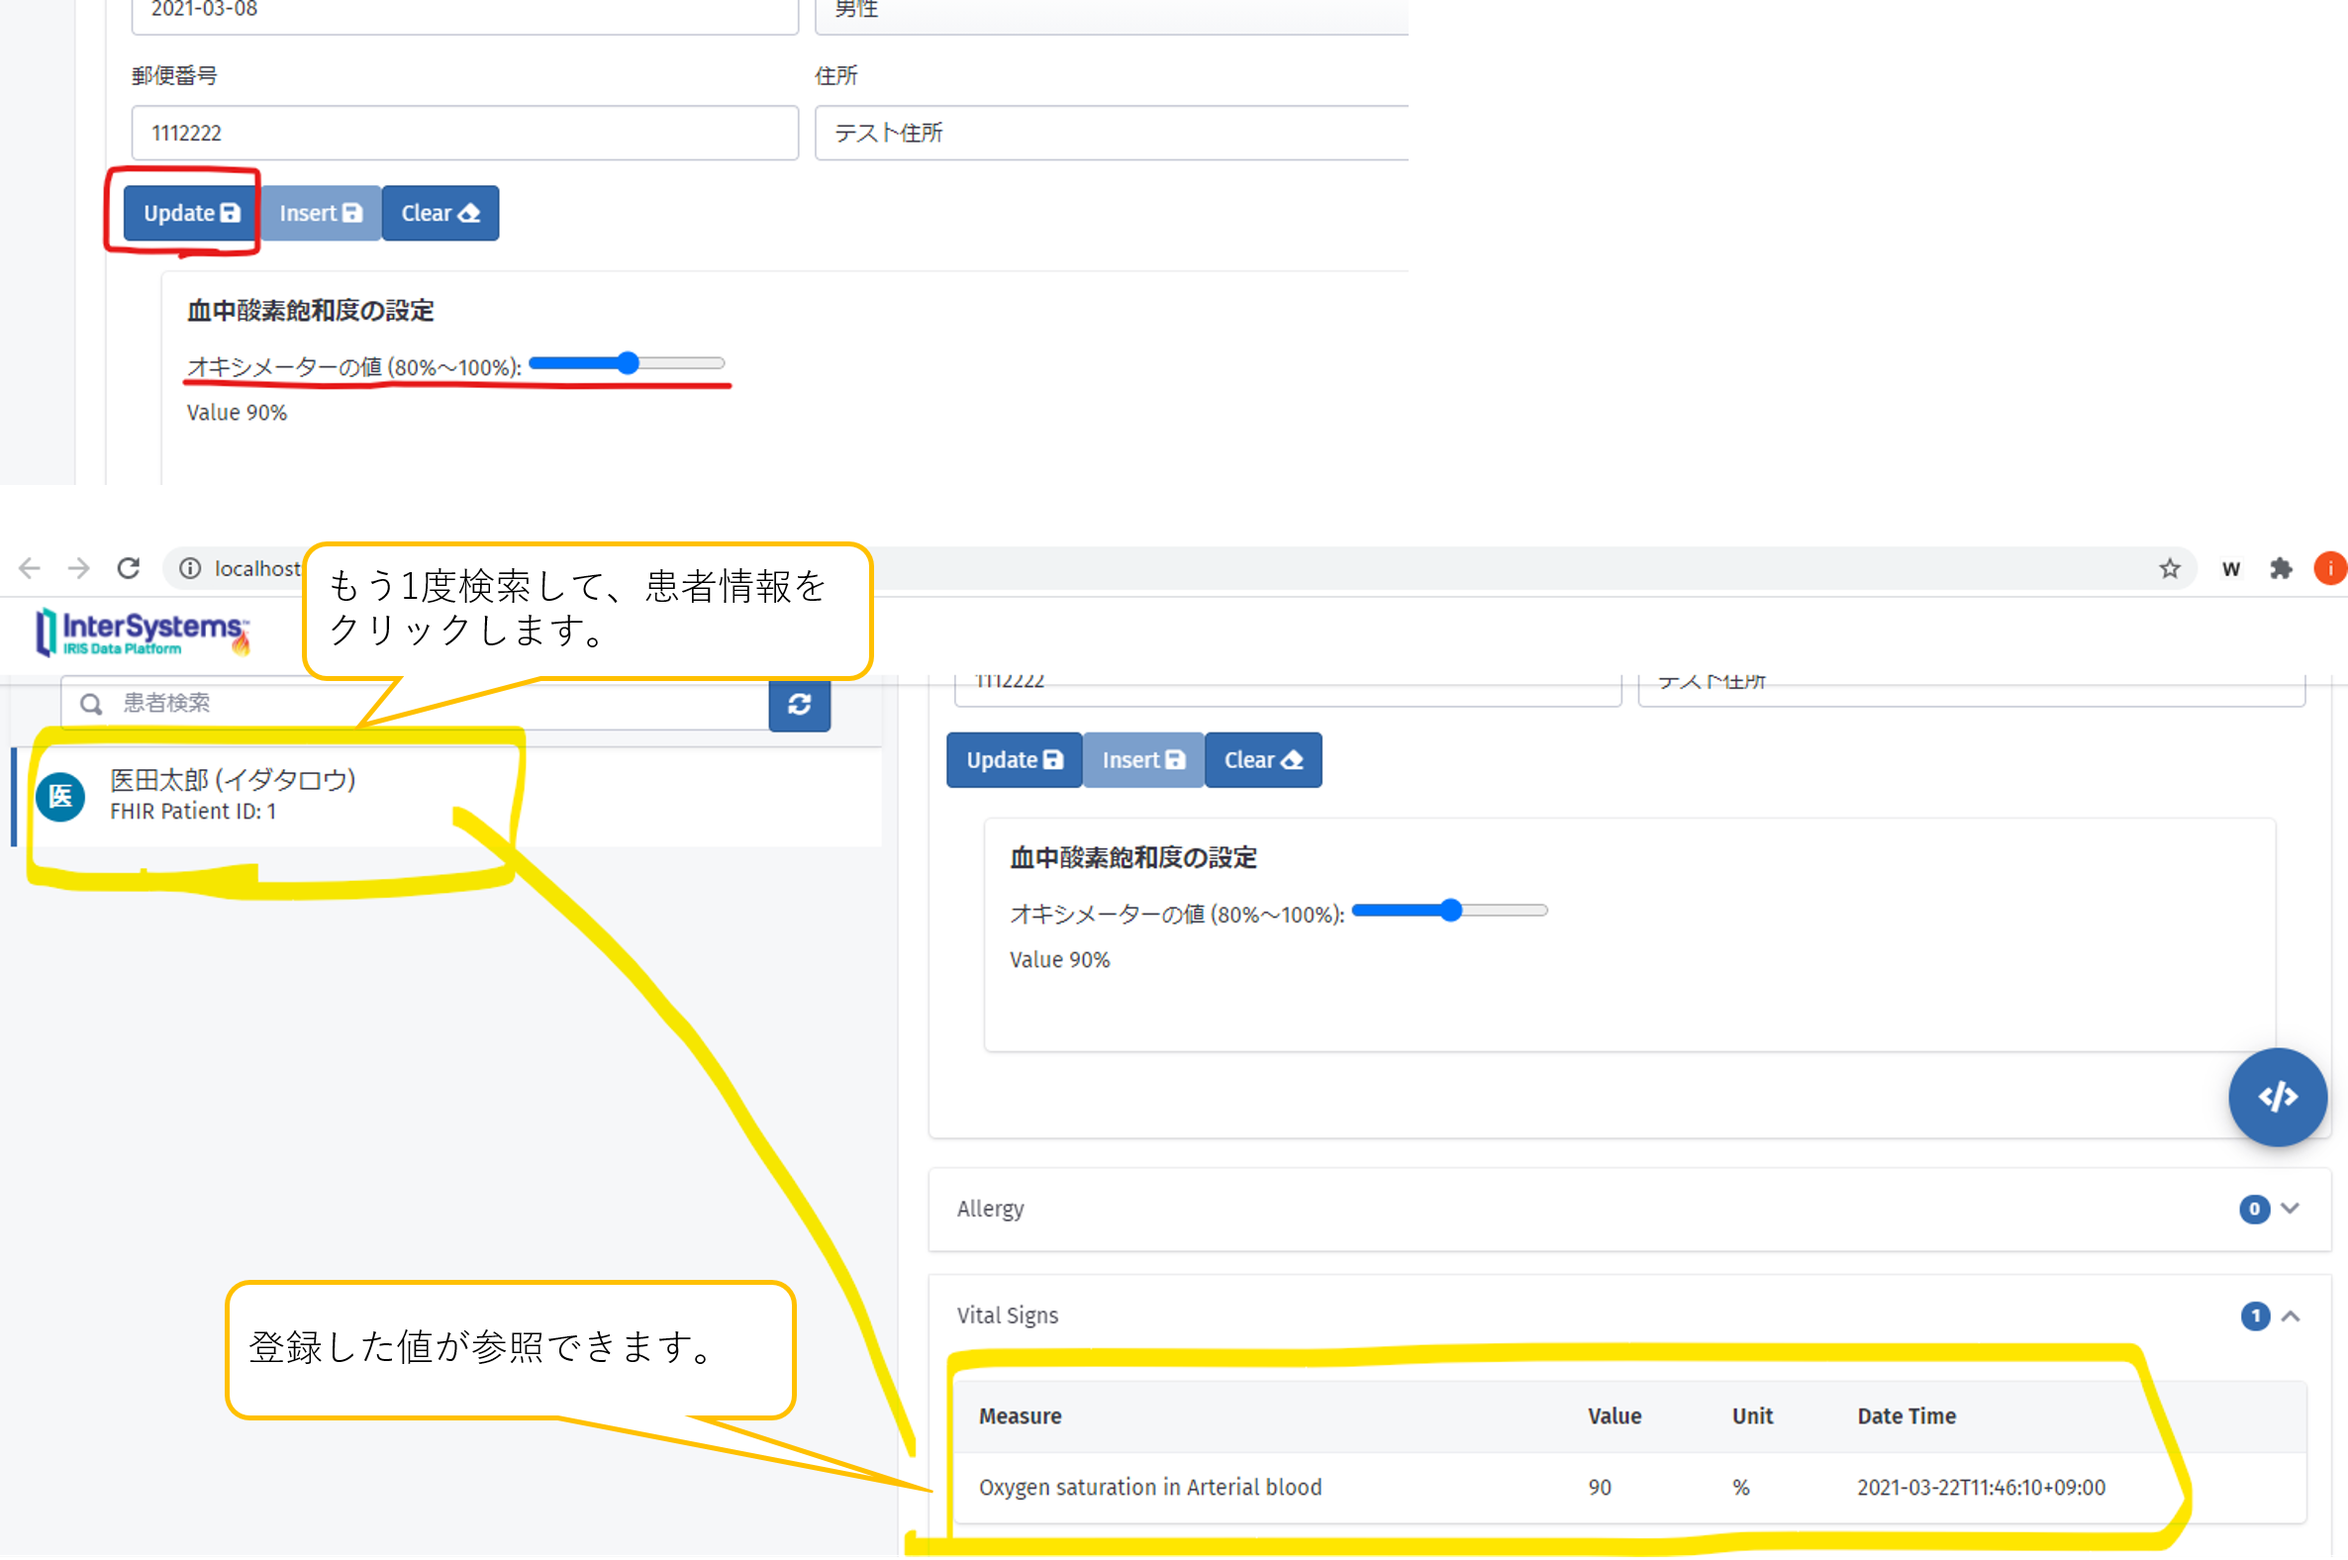
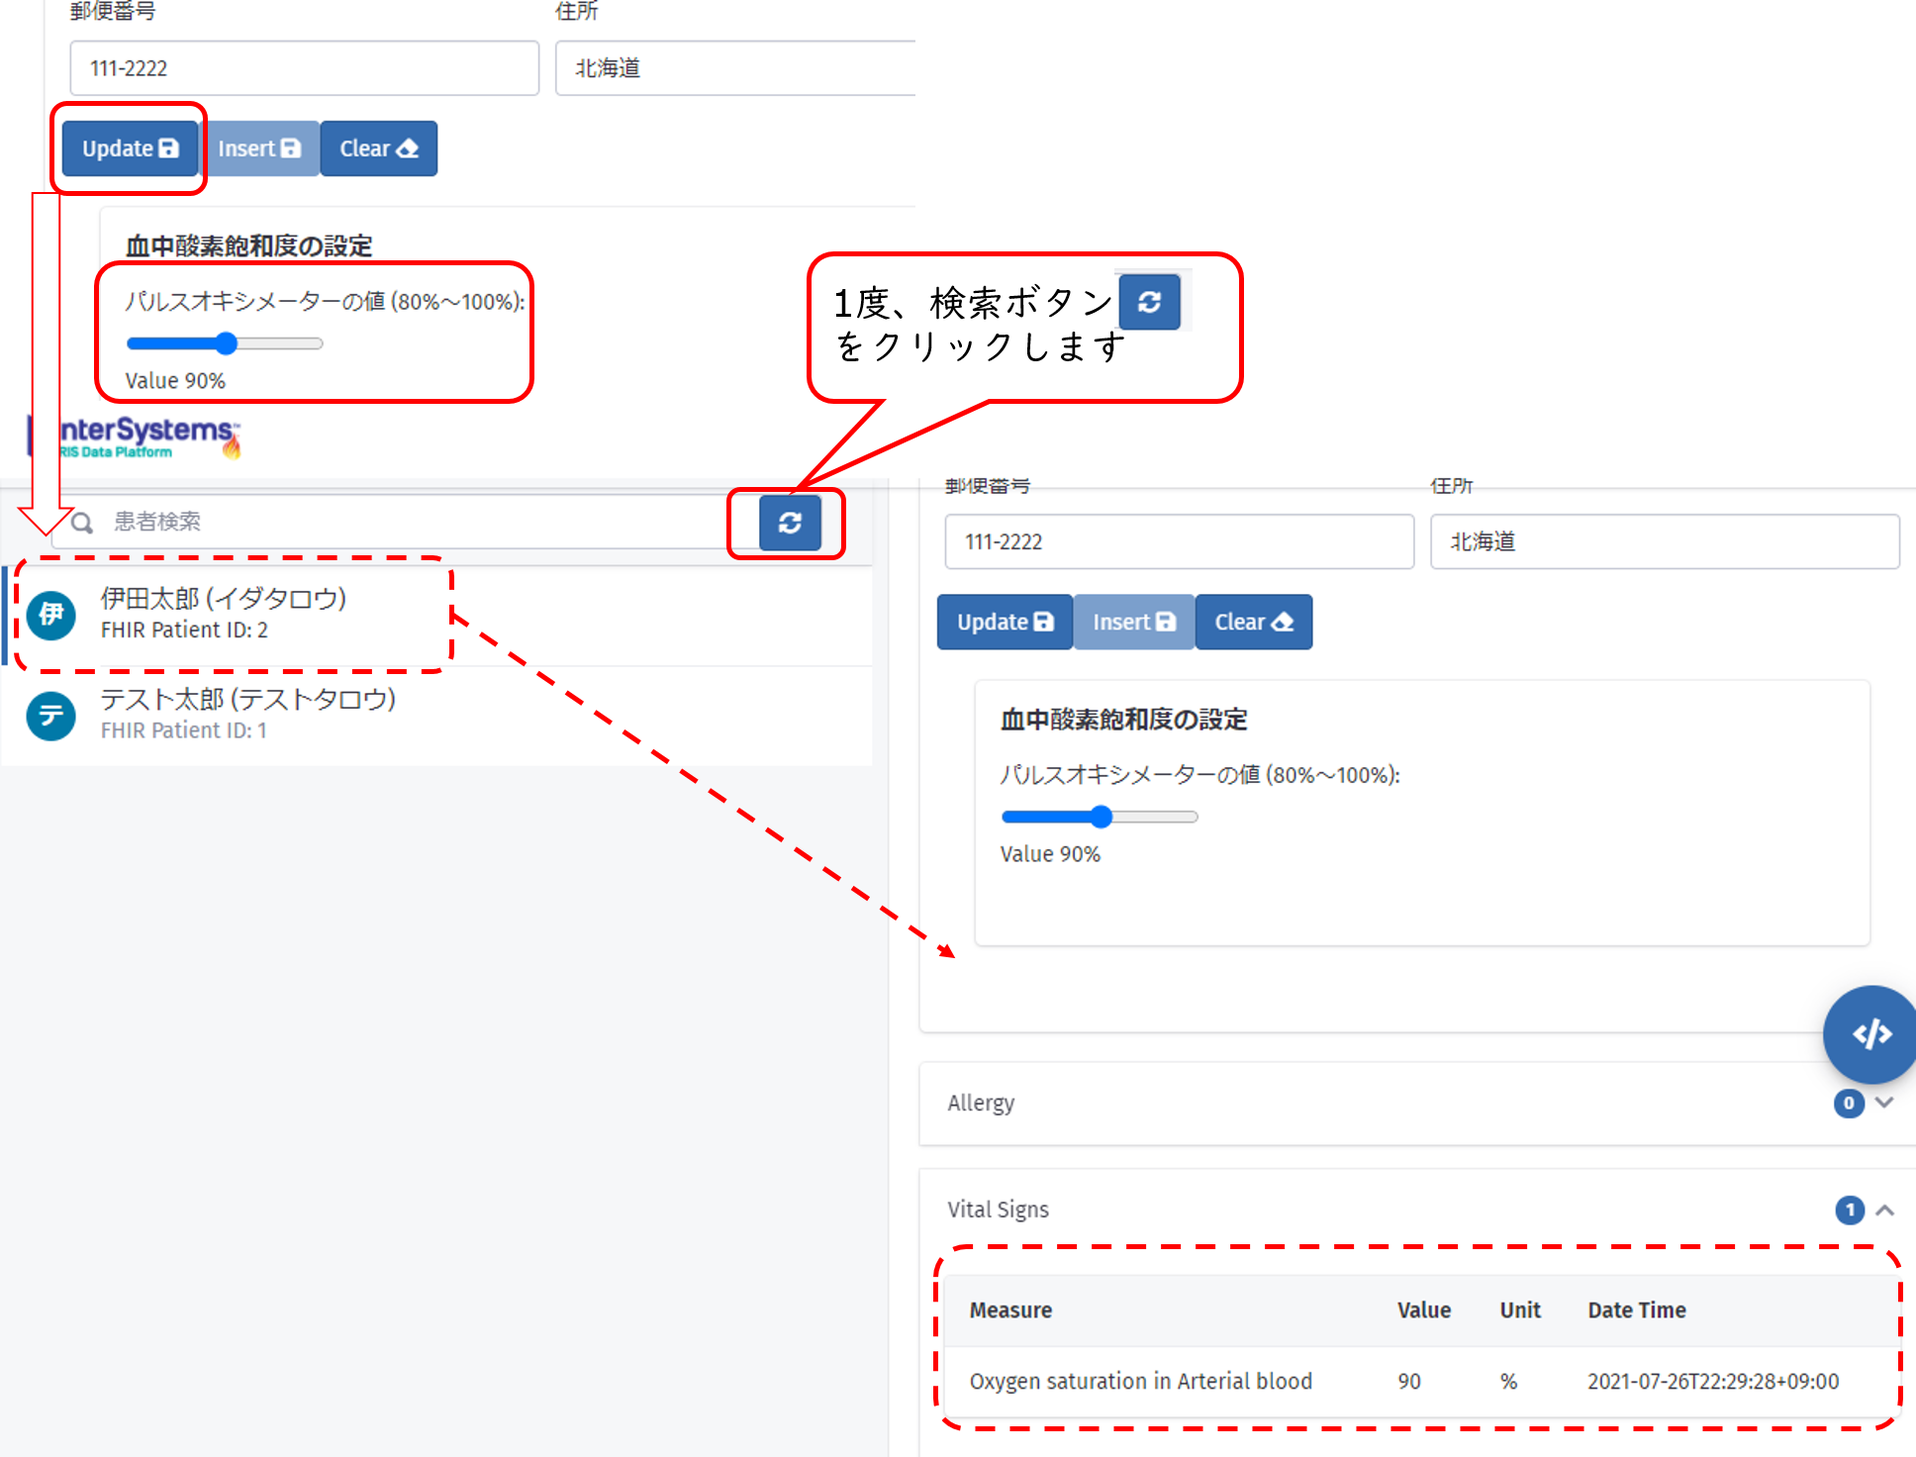
文言修正

diff --git a/src/portal/patientlist.html b/src/portal/patientlist.html
@@ -200,13 +200,13 @@
               <div class="card">
                 <!-- .card-body -->
                 <div class="card-body">
-                  <h4 class="card-title"> 血中飽和酸素度の設定 </h4>
+                  <h4 class="card-title"> 血中酸素飽和度の設定 </h4>
 
                   <!-- .form-row -->
                     <div class="form-row">
                       <!-- grid column -->
                       <div class="col-md-6 mb-3">
-                        <label for="points">オキシメーターの値 (80%～100%): </label>
+                        <label for="points">パルスオキシメーターの値 (80%～100%): </label>
                         <input type="range" id="myRange" name="points" min="80" max="100">
                         <br>
                         <p>Value <span id="output"></span>%</p>
